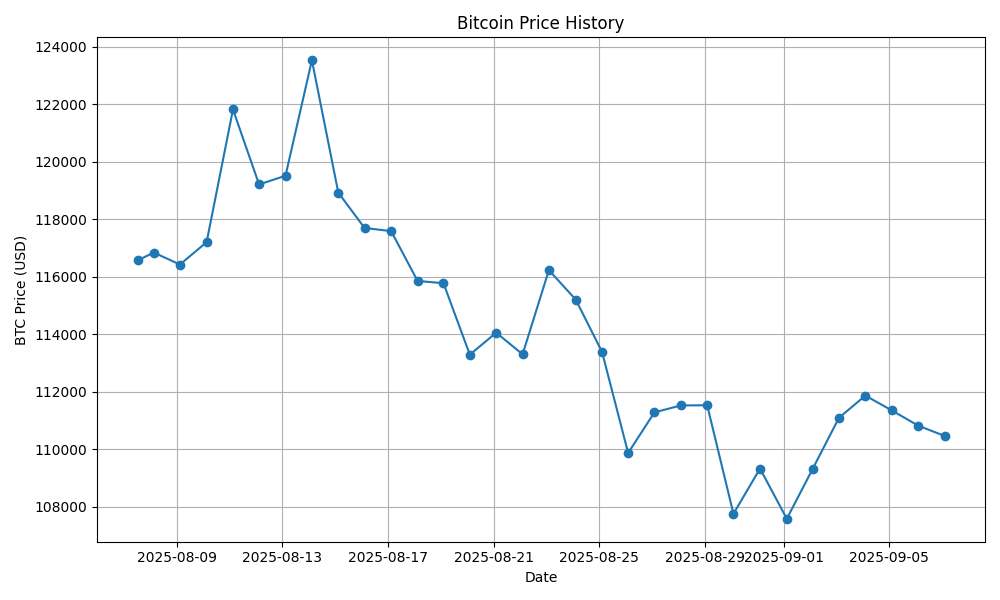
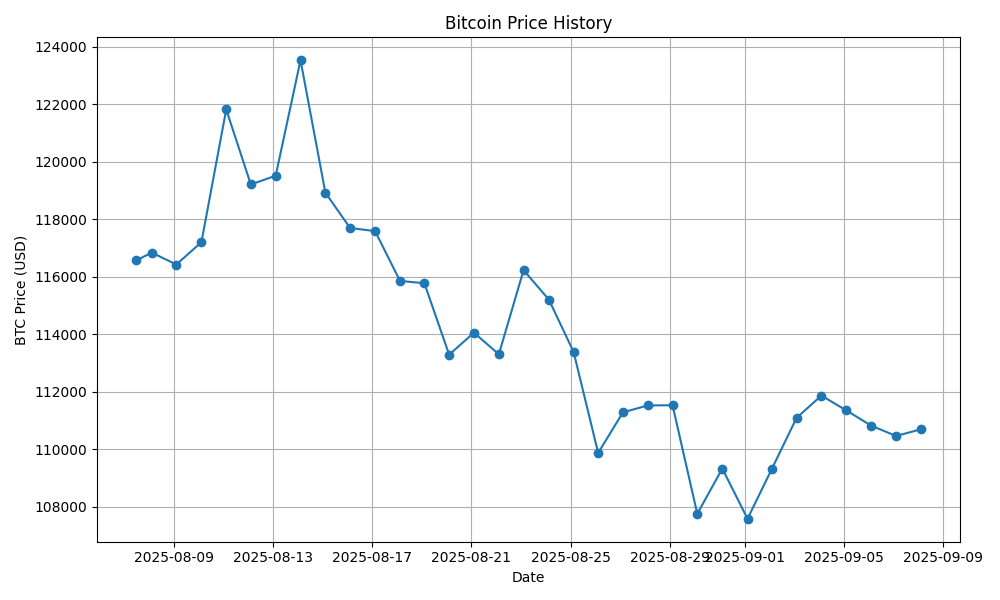
Update: BTC price, chart & README for 2025-09-08

diff --git a/README.md b/README.md
@@ -4,6 +4,6 @@ This project automatically fetches and charts the daily USD price of Bitcoin.
 
 ## Latest Stats
 
-## Latest price (USD): <!--BTC_PRICE-->110460<!--/BTC_PRICE-->
+## Latest price (USD): <!--BTC_PRICE-->110692<!--/BTC_PRICE-->
 
 ![BTC Historical Chart](btc_price_history.png)
